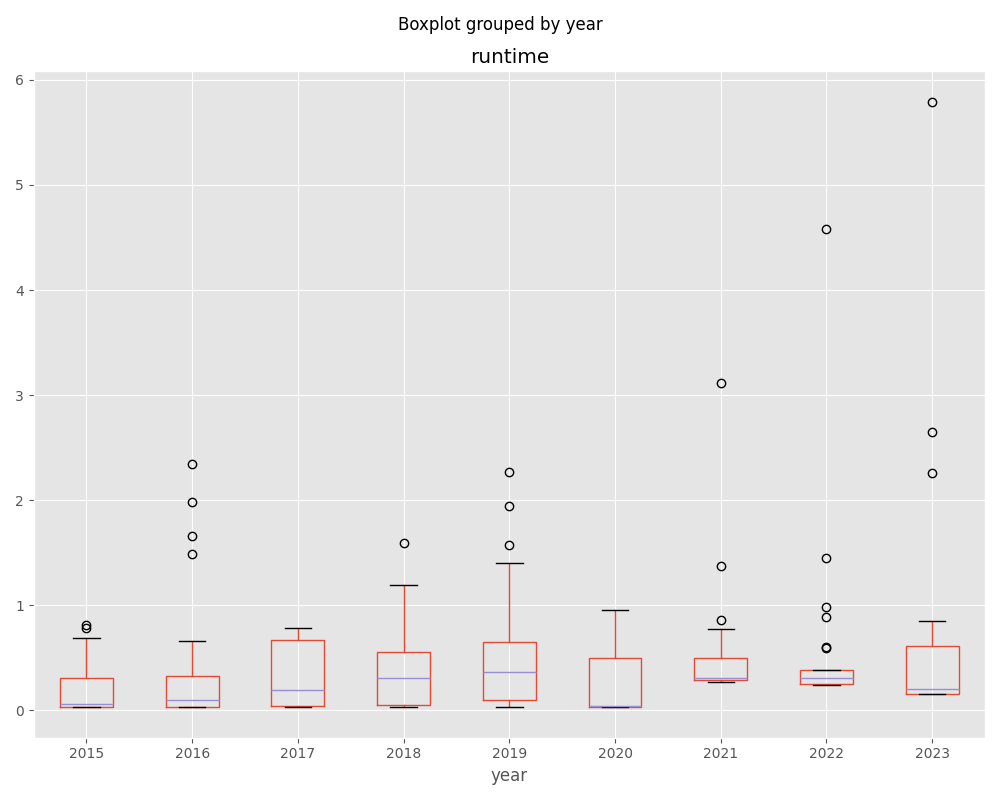
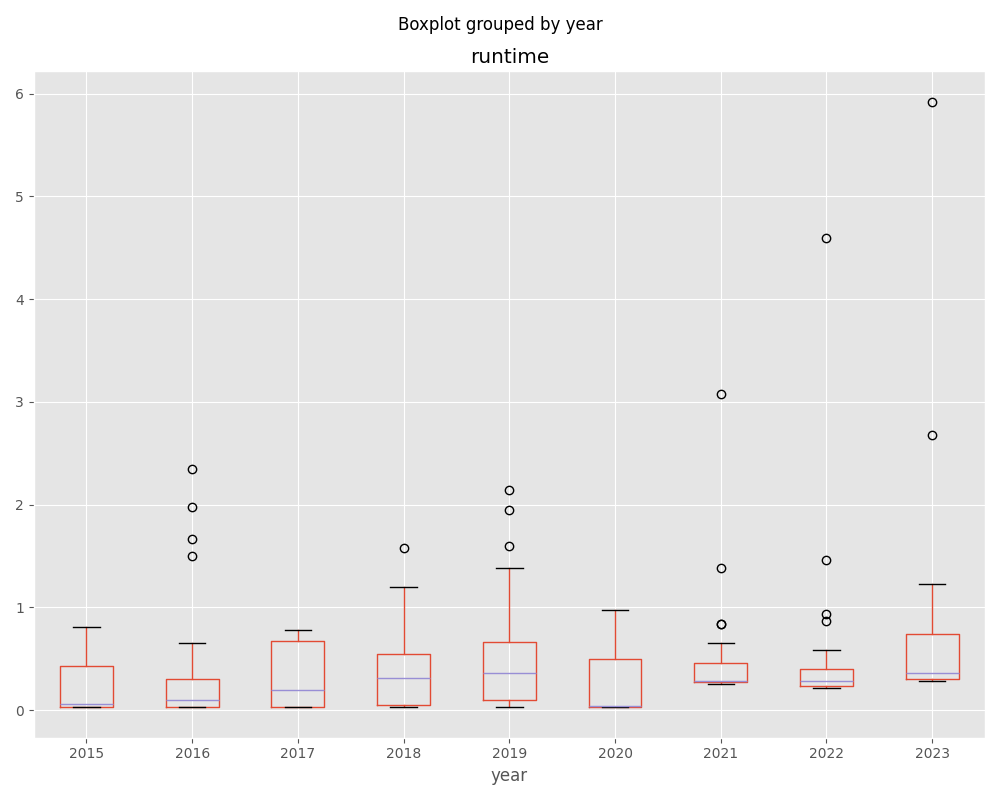
Use plotly sunburst graph to show yearly percentages along with days, update figure saver to handle saving both types

diff --git a/scripts/command/graph.py b/scripts/command/graph.py
@@ -5,8 +5,8 @@ from pathlib import Path
 
 import matplotlib.pyplot as plt
 import pandas as pd
-import seaborn as sns
-from component.figure_saver import FigureSaver
+import plotly.express as px
+from component.figure_saver import FigType, FigureSaver
 
 
 @dataclass(frozen=True)
@@ -28,35 +28,41 @@ class Grapher:
             archive_directory.mkdir(parents=True, exist_ok=False)
         saver = FigureSaver(archive=self.archive, archive_directory=archive_directory)
 
+        runtimes["all"] = "ALL"
+        runtimes["runtime"] = runtimes["runtime"].round(3)
         self.__create_graphs(runtimes, saver)
 
     def __create_graphs(self, runtimes: pd.DataFrame, saver: FigureSaver) -> None:
         saver.save(
             name="runtime_language",
-            ax=runtimes.boxplot(column="runtime", by="language", figsize=(8, 8)),
+            fig=runtimes.boxplot(column="runtime", by="language", figsize=(8, 8)),
+            fig_type=FigType.MATPLOTLIB,
         )
         saver.save(
             name="runtime_year",
-            ax=runtimes.boxplot(column="runtime", by="year", figsize=(10, 8)),
+            fig=runtimes.boxplot(column="runtime", by="year", figsize=(10, 8)),
+            fig_type=FigType.MATPLOTLIB,
         )
 
-        yearly_runtimes = runtimes.groupby("year")["runtime"].sum()
-
-        def format_label(pct: float) -> str:
-            absolute = (pct / 100.0) * sum(yearly_runtimes)
-            return f"{pct:.2f}%\n({absolute:.2f} seconds)"
-
+        yearly_runtimes = px.sunburst(
+            runtimes,
+            path=["all", "year", "day"],
+            values="runtime",
+            width=1000,
+            height=1000,
+        )
+        yearly_runtimes.update_traces(textinfo="label+percent parent+value", sort=False)
         saver.save(
             name="year_percentage",
-            ax=yearly_runtimes.plot.pie(
-                autopct=format_label, colors=sns.color_palette("tab10"), figsize=(8, 8)
-            ),
+            fig=yearly_runtimes,
+            fig_type=FigType.PLOTLY,
         )
 
         language_counts = runtimes["language"].value_counts()
         saver.save(
             name="usage_langauage",
-            ax=language_counts.plot.pie(y=1, autopct="%.2f", figsize=(8, 6)),
+            fig=language_counts.plot.pie(y=1, autopct="%.2f", figsize=(8, 6)),
+            fig_type=FigType.MATPLOTLIB,
         )
 
         yearly_usage = pd.pivot_table(
@@ -69,6 +75,7 @@ class Grapher:
         )
         saver.save(
             name="usage_langauage_yearly",
-            ax=yearly_usage.plot.bar(stacked=True, legend=False, figsize=(10, 6)),
+            fig=yearly_usage.plot.bar(stacked=True, legend=False, figsize=(10, 6)),
+            fig_type=FigType.MATPLOTLIB,
             legend=dict(loc="upper center", ncol=5),
         )

diff --git a/scripts/component/figure_saver.py b/scripts/component/figure_saver.py
@@ -1,8 +1,14 @@
 from dataclasses import dataclass
+from enum import StrEnum, auto
 from pathlib import Path
 from typing import Any, Optional
 
 import matplotlib.pyplot as plt
+
+
+class FigType(StrEnum):
+    MATPLOTLIB = auto()
+    PLOTLY = auto()
 
 
 @dataclass(frozen=True)
@@ -10,17 +16,24 @@ class FigureSaver:
     archive: bool
     archive_directory: Optional[Path]
 
-    def save(self, name: str, ax: Any, legend: Optional[dict] = None) -> None:
+    def save(
+        self, name: str, fig: Any, fig_type: FigType, legend: Optional[dict] = None
+    ) -> None:
         fig_path = Path(f"images/{name}.png")
         self.archive_figure(fig_path)
+
         if fig_path.exists():
             print(f"Skipping {fig_path} as it already exists")
         else:
-            if legend is not None:
-                ax.get_figure().legend(**legend)
-            plt.tight_layout()
-            ax.get_figure().savefig(str(fig_path))
-        ax.get_figure().clear()
+            if fig_type == FigType.MATPLOTLIB:
+                self.save_matplotlib(fig, legend, fig_path)
+            if fig_type == FigType.PLOTLY:
+                self.save_plotly(fig, fig_path)
+            else:
+                raise Exception(f"Unhandled figure type: {fig_type}")
+
+        if fig_type == FigType.MATPLOTLIB:
+            fig.get_figure().clear()
 
     def archive_figure(self, fig_path: Path) -> None:
         if not fig_path.exists() or not self.archive:
@@ -28,3 +41,12 @@ class FigureSaver:
         assert self.archive_directory is not None
         assert self.archive_directory.exists()
         fig_path.rename(self.archive_directory.joinpath(fig_path.name))
+
+    def save_matplotlib(self, fig: Any, legend: Optional[dict], fig_path: Path) -> None:
+        if legend is not None:
+            fig.get_figure().legend(**legend)
+        plt.tight_layout()
+        fig.get_figure().savefig(str(fig_path))
+
+    def save_plotly(self, fig: Any, fig_path: Path) -> None:
+        fig.write_image(file=str(fig_path), format="png")
